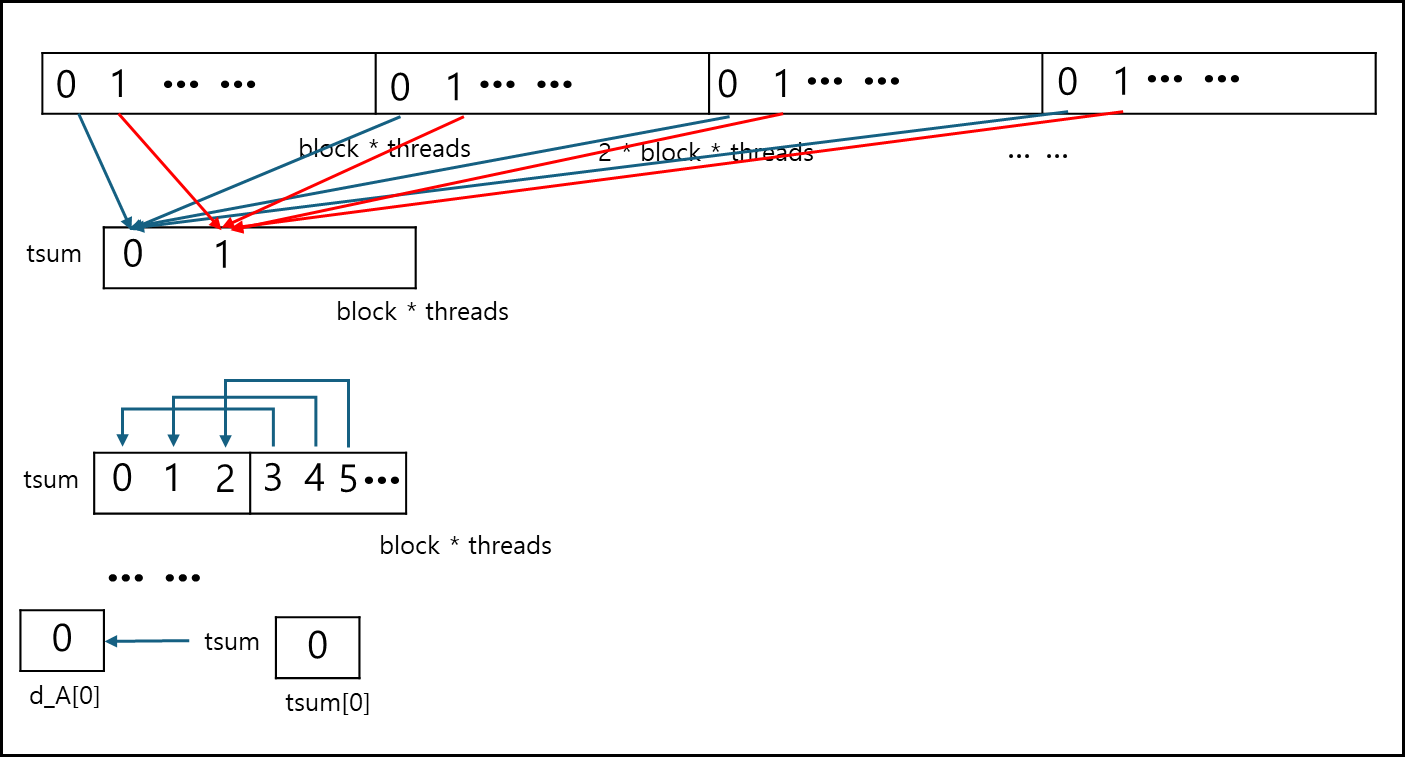
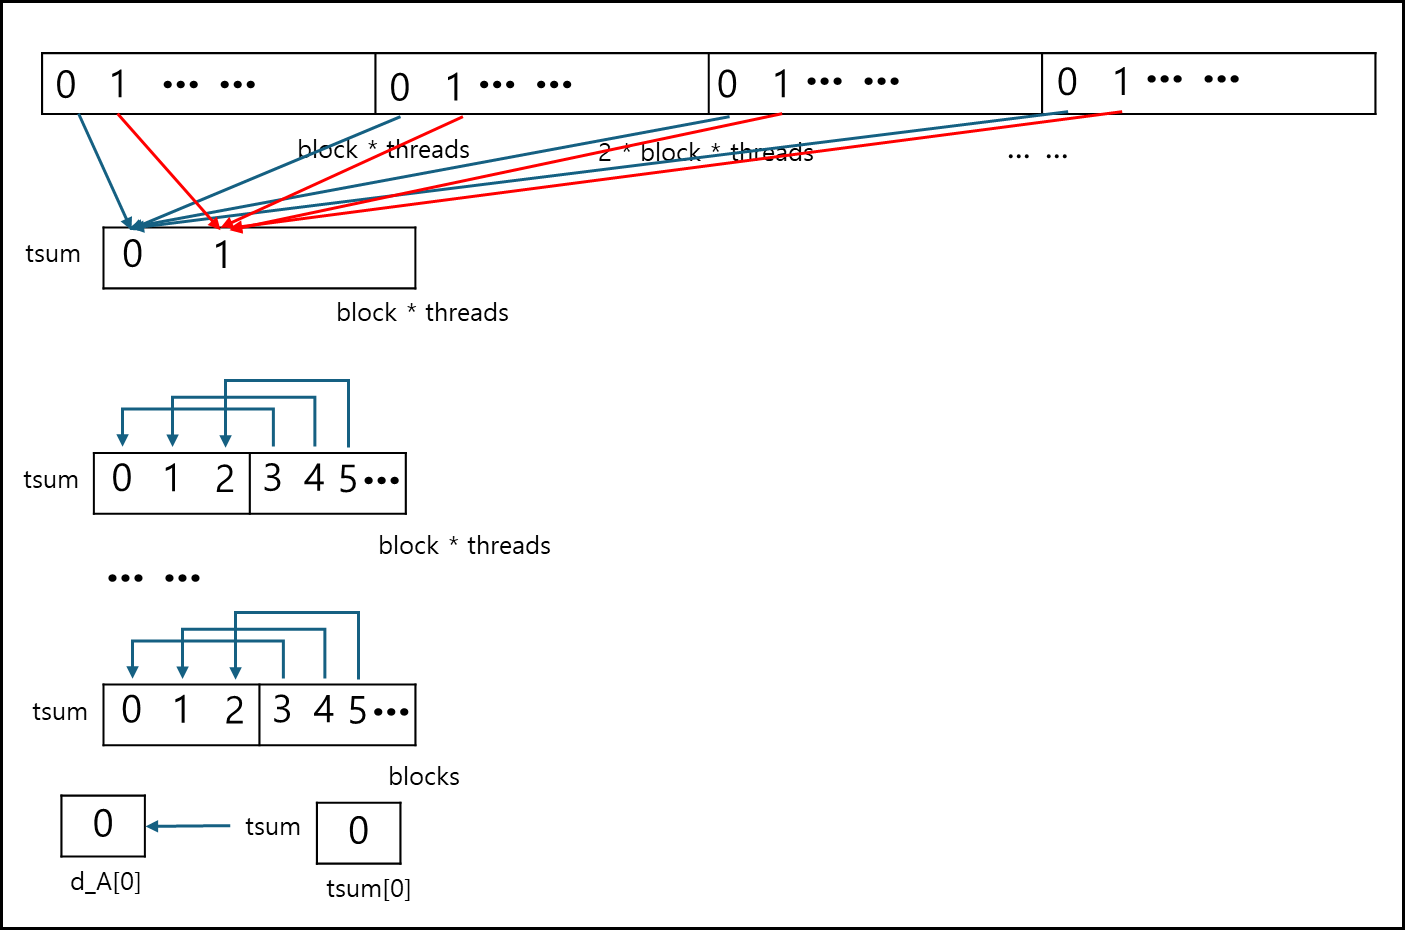
cuda reduce 예제 분석: 오타 및 잘 못된 그림 수정

Changed region(s): [[0.0, 0.0304, 0.9794, 0.9723]]

diff --git a/_posts/trial_and_error/2025-3-30-cuda-reduce-예제분석.md b/_posts/trial_and_error/2025-3-30-cuda-reduce-예제분석.md
@@ -8,7 +8,8 @@ render_with_liquid: false
 ---
 
 # CUDA Reduce 예제 분석
-이번 시간에는 수업중에 나온 Reduce 함수에 대한 예제를 분석해보겠다.
+이번 시간에는 수업중에 나온 Reduce 함수에 대한 예제를 분석해보겠다.   
+보다보면 알겠지만 번호가 큰 함수일 수록 효율적이고 빠른 함수이다.
 
 ## 1. reduce0 예제 분석
 ```cuda
@@ -19,6 +20,12 @@ __global__ void reduce0(float* x, int m) {
 }
 
 // host에서 호출, N은 전체 데이터 셋 개수
+// h_A => 원본 array 값
+float * d_A;
+
+cudaMalloc((void**)&d_A, N * sizeof(float));
+cudaMemcpy(d_A,h_A,N * sizeof(float),cudaMemcpyHostToDevice);
+
 for (int m = N / 2; m > 0; m /= 2) {
     int threads = (256 < m) ? 256 : m;
     int blocks = (m / 256 > 1) ? m / 256 : 1;
@@ -30,7 +37,7 @@ reduce0 함수의 경우 절반씩 나눠가면서 전반부에 후반부 데이
 한번에 돌아가는 thread는 m값이 256 보다 크다면 256개, 그보다 작다면 더 작은 크기로 돌아가며,
 기본적으로 N값이 2의 배수라는 가정을 두고 돌리는 것이다.
 
-![img.png](../../assets/blog/trial_error/gpu/reduce/img_2.png)
+![img.png](/assets/blog/trial_error/gpu/reduce/img_2.png)
 
 결과값은 d_A[0]에 남게 된다.
 
@@ -46,7 +53,15 @@ __global__ void reduce1(float* x, int N) {
     x[tid] = tsum;
 }
 
-// host에서 호출
+// host에서 호출, N은 실 데이터 배열 길이
+// h_A => 원본 array 값
+int blocks = 288; // SM의 배수
+int threads = 256;
+float * d_A;
+
+cudaMalloc((void**)&d_A, N * sizeof(float));
+cudaMemcpy(d_A,h_A,N * sizeof(float),cudaMemcpyHostToDevice);
+
 reduce1 << < blocks, threads >> > (d_A, N);
 reduce1 << < 1, threads >> > (d_A, blocks * threads);
 reduce1 << < 1, 1 >> > (d_A, threads);
@@ -54,7 +69,7 @@ reduce1 << < 1, 1 >> > (d_A, threads);
 
 threads * blocks 개수가 전체 N개보다 작고 N개의 배수의 형태로 운용한다.
 
-![img_1.png](../../assets/blog/trial_error/gpu/reduce/img_3.png)
+![img_1.png](/assets/blog/trial_error/gpu/reduce/img_3.png)
 
 threads * blocks를 stride로 잡고, stride 기준으로 데이터를 갖고와서 첫번째 stride 범위안의 메모리에 값을 더한다.   
 이후 두번째 커널에서는 threads * blocks 범위의 데이터를 한 개의 block안에 더한다.
@@ -87,6 +102,14 @@ __global__ void reduce2(float *y, float *x, int N) {
 int blocks  = 256;  // power of 2
 int threads = 256;
 
+// h_A => 원본 array 값
+float * d_A;
+float * d_B;
+
+cudaMalloc((void**)&d_A, N * sizeof(float));
+cudaMemcpy(d_A,h_A,N * sizeof(float),cudaMemcpyHostToDevice);
+cudaMalloc((void**)&d_B, N * sizeof(float));
+
 reduce2 << < blocks, threads, threads * sizeof(float) >> > (d_B, d_A, N);
 reduce2 << < 1, blocks, blocks * sizeof(float) >> > (d_A, d_B, blocks);
 ```
@@ -95,7 +118,10 @@ reduce2 << < 1, blocks, blocks * sizeof(float) >> > (d_A, d_B, blocks);
 기본적으로 위 방식도 stride를 사용하되, stride 밖의 값은 shared_memory를 이용하여 값을 더하고   
 stride 범위 안의 값은 2로 나눠가며 뒤의 값을 앞의 메모리에 더해가는 방식이다.     
 
-![img_2.png](../../assets/blog/trial_error/gpu/reduce/img_4.png)
+첫번째 커널에서는 전체 값이 한 개의 블록 사이즈로 줄어들고
+두번째 커널에서는 한 개의 블록사이즈가 한 값으로 줄어들어서 결과를 반환한다.
+
+![img.png](/assets/blog/trial_error/gpu/reduce/img_4.png)
 
 shared_memory를 썼다는 점에서 reduce0와 reduce1 방식을 mix 했다고 볼 수 있다.   
 위 함수 역시 d_A[0]에 결과값이 저장된다. 
@@ -131,6 +157,14 @@ __global__ void reduce3(float* y, float* x, int N) {
 //host에서 호출
 int blocks = 270;  // may not be a power of 2
 int threads = 256;
+
+// h_A => 원본 array 값
+float * d_A;
+float * d_B;
+
+cudaMalloc((void**)&d_A, N * sizeof(float));
+cudaMemcpy(d_A,h_A,N * sizeof(float),cudaMemcpyHostToDevice);
+cudaMalloc((void**)&d_B, N * sizeof(float));
 
 reduce3 << < blocks, threads, threads * sizeof(float) >> > (d_B, d_A, N);
 reduce3 << < 1, blocks, blocks * sizeof(float) >> > (d_A, d_B, blocks);
